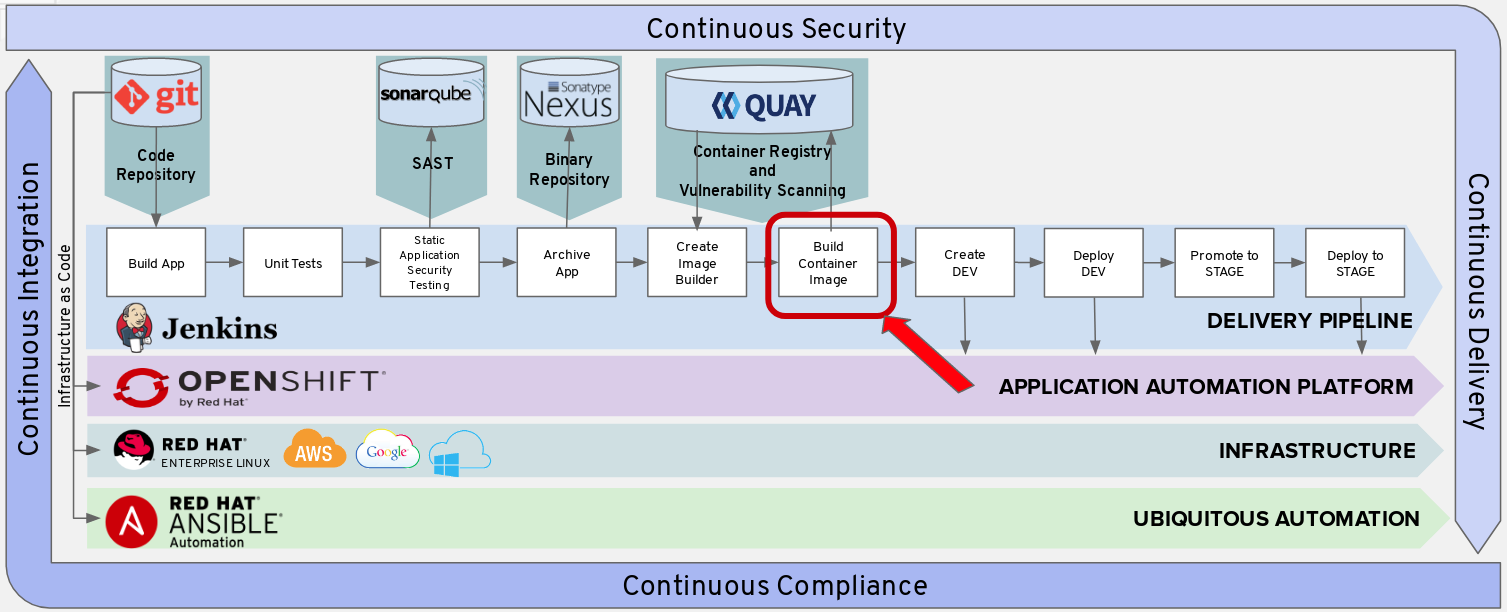
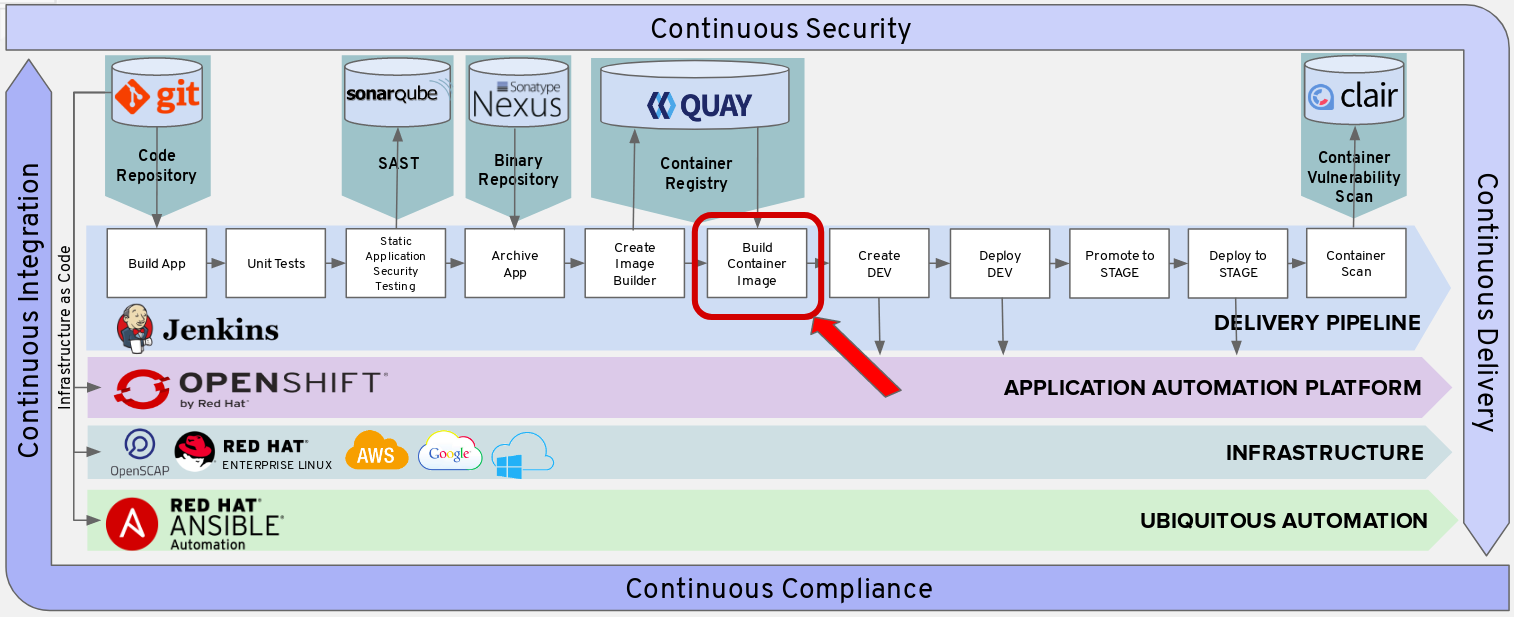
Added Quay and Clair to Secure Software Factory Workshop

Changed region(s): [[0.0, 0.0, 0.998, 1.0], [0.0624, 0.2484, 0.1248, 0.3105], [0.0936, 0.3415, 0.1248, 0.3725]]

diff --git a/content/workshops/secure_software_factory/lab20.md b/content/workshops/secure_software_factory/lab20.md
@@ -1,0 +1,82 @@
+---
+title: Lab 20 - Add Clair Container Scan
+workshops: secure_software_factory
+workshop_weight: 30
+layout: lab
+---
+# Add Clair Container Scan
+
+Add the configuration for the Container Scan below to your pipeline text file.
+
+<img src="../images/pipeline_container_scan.png" width="900"><br/>
+
+<br>
+
+# Append to Jenkins Pipeline Configuration
+
+In Builds > Pipelines > tasks-pipeline > Actions > Edit
+
+<img src="../images/pipeline_actions_edit.png" width="900" />
+
+In your pipeline, replace the Jenkins agent 'maven' with 'jenkins-slave-image-mgmt'.
+
+```
+pipeline {
+  agent {
+    label 'jenkins-slave-image-mgmt'
+  }
+```
+
+In your pipeline, add the Container Scan Stage at the end of your Pipeline but before the 2 Ending Brackets that you've added previously.
+
+Please replace the following values:
+
+- \<oc user\> : this was given to you by the instructor
+- \<oc password\> : this was given to you by the instructor
+- \<oc environment\> : this was given to you by the instructor
+- \<quay user\> : created from a previous lab
+- \<quay password\> : created from a previous lab
+- \<docker repository\> : In another tab with the OpenShift Console, go to Builds > Images.  Find the Docker Repo link for "jboss-eap70-openshift". It should be value similar to "172.30.186.87:5000/cicd-user1/jboss-eap70-openshift"
+- \<quay\> : this was given to you by the instructor
+- \<quay user again\> : same user as \<quay user\>
+- \<quay repository\>  : created from the previous lab, i.e. jboss-eap70-openshift
+
+```
+    stage('Clair Container Scan') {
+      steps {
+            sh "oc login -u <oc user> -p '<oc password>'  --insecure-skip-tls-verify <oc environment> 2>&1"
+            sh 'echo "$(oc whoami):$(oc whoami -t)" > /tmp/srccreds'
+            sh 'skopeo --debug copy --src-creds="$(cat /tmp/srccreds)" --src-tls-verify=false --dest-tls-verify=false --dest-creds=<quay user>:<quay password> docker://<docker repo>:1.5 docker://<quay>/<quay user again>/<quay repository>:1.5'
+        }
+    }
+```
+
+For an example, see the following:
+
+```
+stage('Clair Container Scan') {
+  steps {
+        sh "oc login -u user1 -p 'redhat!@#' --insecure-skip-tls-verify https://master.ocp-naps.redhatgov.io:8443 2>&1"
+        sh 'echo "$(oc whoami):$(oc whoami -t)" > /tmp/srccreds'
+        sh 'skopeo --debug copy --src-creds="$(cat /tmp/srccreds)" --src-tls-verify=false --dest-tls-verify=false --dest-creds=user3:redhat123 docker://docker-registry.default.svc:5000/cicd-user1/jboss-eap70-openshift:1.5 docker://quay-enterprise-quay-enterprise.apps.ocp-naps.redhatgov.io/user1/jboss-eap70-openshift:1.5'
+    }
+}
+```
+
+Save your Jenkins file
+
+# Run Pipeline
+
+Go to Builds > Pipeline
+
+Click Start Pipeline for the pipeline you just created called tasks-pipeline.
+
+Your pipeline should now execute through all the stages you created.  
+
+Go ahead and click View Log.  This will take you to the Jenkins logs and you can follow the various stages in your pipeline.
+
+When it asks to promote to stage, go ahead and promote it.
+
+<img src="../images/pipeline_execution.png" width="900"><br/>
+
+<br>

diff --git a/content/workshops/secure_software_factory/README.md b/content/workshops/secure_software_factory/README.md
@@ -1,0 +1,36 @@
+# Must have existing OpenShift Environment
+You can use either of the OpenShift provsioners from RedHatGov
+ - https://github.com/RedHatGov/redhatgov.workshops/tree/master/openshift-aws-setup
+ - https://github.com/RedHatGov/redhatgov.workshops/tree/master/openshift_terraform
+ - https://github.com/gnunn1/openshift-aws-setup
+ - https://github.com/jaredhocutt/openshift-provision
+ - https://github.com/bit4man/ansible_agnostic_deployer
+
+# Environment Setup
+If you'd like to setup an individual environment, use the commands below to set it up or delete the single environment.
+
+## Help
+
+$ scripts/provision.sh --help
+
+### Individual Environment
+
+$ scripts/provision.sh deploy --deploy-che --ephemeral
+
+### Individual Delete
+
+$ scripts/provision.sh delete
+
+# Batch Setup
+If you'd like to setup the workshop for numerous users, go into the provision-batch-setup.sh script and update for loop with the amount of users .  This will create an isolated environment per user.
+
+To run the script
+
+$ ./provision-batch-setup.sh
+
+# Batch Delete
+If you'd like to delete, run the script for the users you'd like to delete by updating the for loop
+
+To run the script
+
+$ ./provision-batch-delete.sh

diff --git a/content/workshops/secure_software_factory/lab18.md b/content/workshops/secure_software_factory/lab18.md
@@ -1,0 +1,28 @@
+---
+title: Lab 18 - Create Quay Account
+workshops: secure_software_factory
+workshop_weight: 28
+layout: lab
+---
+# Create Quay Account
+
+Please go to the Quay Login with the link given to you by your instructor
+
+Click Create Account at the bottom of the page.
+
+<br>
+
+<img src="../images/quay_login.png" width="300"><br/>
+
+Fill in the account information for Quay.
+
+- Username: your assigned username i.e user1
+- E-mail address: your email address
+- Password: redhat123
+- Confirm Password: redhat123
+
+Click Create Account
+
+<br>
+
+<img src="../images/quay_create_account.png" width="400"><br/>

diff --git a/content/workshops/secure_software_factory/lab21.md b/content/workshops/secure_software_factory/lab21.md
@@ -1,0 +1,25 @@
+---
+title: Lab 21 - View Container Scan Report
+workshops: secure_software_factory
+workshop_weight: 31
+layout: lab
+---
+# View Clair Container Scan Report in Quay
+
+Select your Repository from the previous lab
+
+<img src="../images/quay_repo.png" width="900"><br/>
+
+<br>
+
+Select Repository Tags on the left hand menu
+
+Select the Security Scan for your Image
+
+<img src="../images/quay_repo_tags.png" width="900"><br/>
+
+<br>
+
+View the Security Scan Report
+
+<img src="../images/quay_scan.png" width="900"><br/>

diff --git a/content/workshops/secure_software_factory/lab19.md b/content/workshops/secure_software_factory/lab19.md
@@ -1,0 +1,23 @@
+---
+title: Lab 19 - Create Quay Repository
+workshops: secure_software_factory
+workshop_weight: 29
+layout: lab
+---
+# Create Container Repository in Quay
+
+Click Create New Repository
+
+<img src="../images/quay_create_repo.png" width="200"><br/>
+
+<br>
+
+Enter Name of Repository, i.e. jboss-eap70-openshift
+
+Select Public to make this a Public Repository
+
+Click Create Public Repository
+
+<img src="../images/quay_repo_config.png" width="500"><br/>
+
+<br>

diff --git a/content/workshops/secure_software_factory/Fin.md b/content/workshops/secure_software_factory/Fin.md
@@ -1,7 +1,7 @@
 ---
 title: Fin
 workshops: secure_software_factory
-workshop_weight: 30
+workshop_weight: 99
 layout: lab
 ---
 
